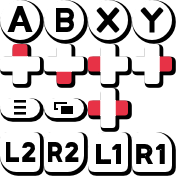
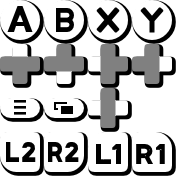
finalize tinted controller gryph rendering

Changed region(s): [[0.0, 0.2273, 0.9943, 0.7386]]

diff --git a/source/Burntime.Remaster/GUI/InputControlLabelRenderer.cs b/source/Burntime.Remaster/GUI/InputControlLabelRenderer.cs
@@ -91,6 +91,7 @@ sealed class InputControlLabelRenderer
             }
 
             ISprite glyph;
+            PixelColor glyphTint = _glyphTint;
             int sourceSize = _app.Engine.OutputFiltering == OutputFiltering.Xbr2
                 ? GlyphSourceSize2x
                 : GlyphSourceSize;
@@ -101,10 +102,14 @@ sealed class InputControlLabelRenderer
             else
             {
                 int index = (int)part.Glyph - 1;
-                int family = (int)_app.Engine.InputGlyphs.LabelStyle;
+                GamepadLabelStyle labelStyle = _app.Engine.InputGlyphs.LabelStyle;
+                int family = (int)labelStyle;
                 glyph = _glyphs[family][index];
+                if ((labelStyle is GamepadLabelStyle.Xbox or GamepadLabelStyle.PlayStation) &&
+                    part.Glyph is >= InputGlyph.FaceSouth and <= InputGlyph.FaceNorth)
+                    glyphTint = PixelColor.White;
             }
-            DrawGlyph(target, new Vector2(x, position.y), glyph, sourceSize);
+            DrawGlyph(target, new Vector2(x, position.y), glyph, sourceSize, glyphTint);
             x += GlyphWidth;
         }
         string suffix = brackets ? "]" : "";
@@ -121,10 +126,11 @@ sealed class InputControlLabelRenderer
         int sourceSize = _app.Engine.OutputFiltering == OutputFiltering.Xbr2
             ? GlyphSourceSize2x
             : GlyphSourceSize;
-        DrawGlyph(target, position, _holdGlyph, sourceSize);
+        DrawGlyph(target, position, _holdGlyph, sourceSize, _glyphTint);
     }
 
-    void DrawGlyph(RenderTarget target, Vector2 position, ISprite glyph, int sourceSize)
+    void DrawGlyph(RenderTarget target, Vector2 position, ISprite glyph, int sourceSize,
+        PixelColor tint)
     {
         if (glyph.Touch())
             glyph.Resolution = GlyphResolution * GlyphSourceSize / sourceSize;
@@ -134,7 +140,7 @@ sealed class InputControlLabelRenderer
                 position.y + (_font.GetHeight() - GlyphHeight) / 2 +
                 (_app.IsNewGfx ? 0.5f : 0)),
             new Rect(Vector2.Zero, new Vector2(sourceSize, sourceSize)),
-            _glyphTint,
+            tint,
             postFilter: true, directToFramebuffer: !_app.IsNewGfx);
     }
 

diff --git a/source/Burntime.Remaster/GUI/InputPromptOverlay.Row.cs b/source/Burntime.Remaster/GUI/InputPromptOverlay.Row.cs
@@ -13,7 +13,7 @@ sealed partial class InputPromptOverlay
     {
         const int VerticalPadding = 2;
         static readonly PixelColor HudColor = new(144, 160, 212);
-        static readonly PixelColor OptionsColor = new(190, 77, 12);
+        static readonly PixelColor OptionsColor = new(240, 120, 32);
         string _separator = "   ";
 
         readonly GuiFont _font;
